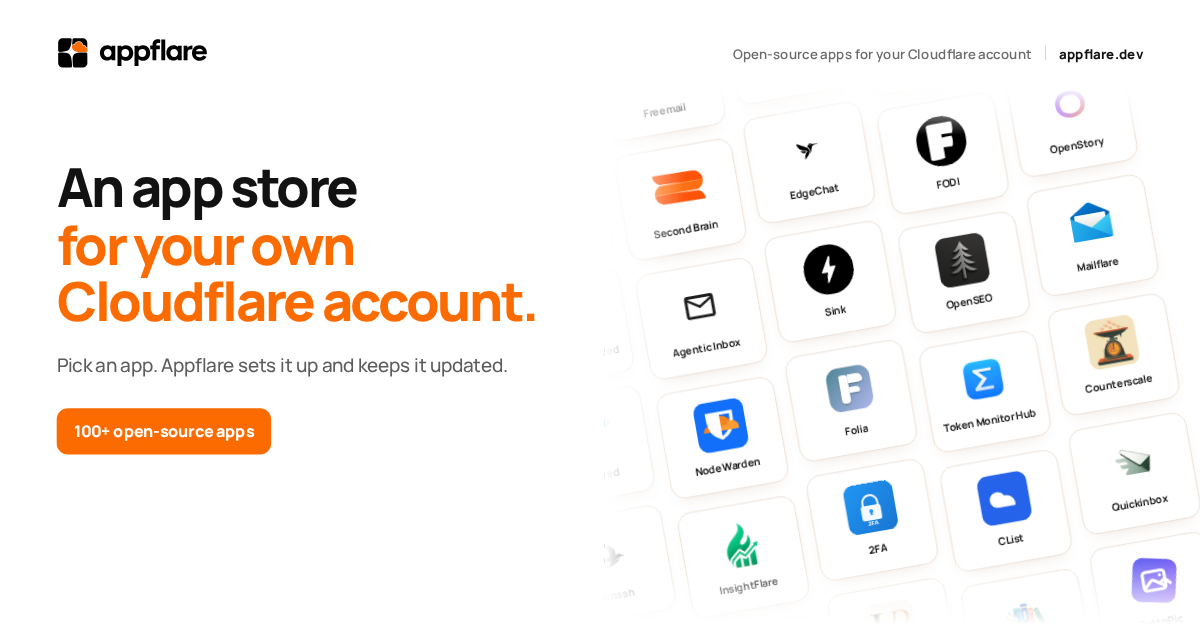
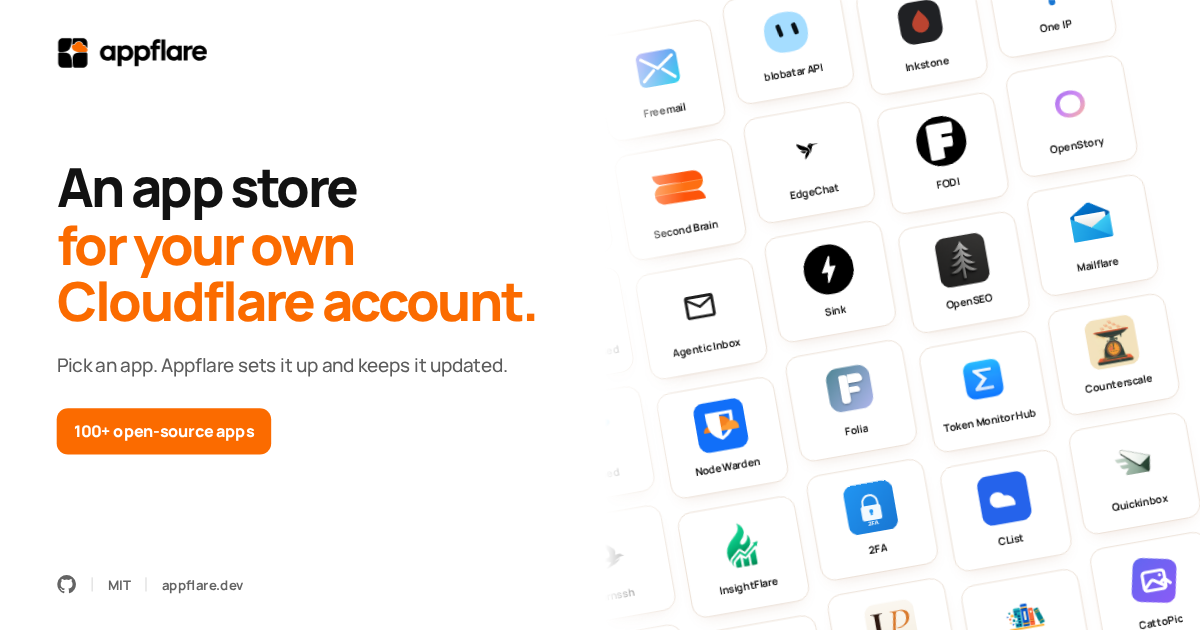
docs: extend social app wall and add license footer

diff --git a/apps/docs/src/build/og-images.ts b/apps/docs/src/build/og-images.ts
@@ -1,6 +1,7 @@
 import { mkdir, readdir, readFile, writeFile } from "node:fs/promises";
 import { dirname, join, resolve } from "node:path";
 import type { Plugin } from "vite";
+import { ogImagePath } from "../lib/shared.ts";
 
 /**
  * The same-site OpenGraph image paths an HTML document references, such as
@@ -45,12 +46,11 @@ export function ogImages({ siteUrl }: { siteUrl: string }): Plugin {
         if (!client) throw new Error('Vite\'s "client" environment is missing');
         const outDir = resolve(viteBuilder.config.root, client.config.build.outDir);
 
-        const paths = new Set<string>();
+        // Existing shared links may still reference the previous default image.
+        const paths = new Set<string>([ogImagePath([])]);
         for (const file of await htmlFiles(outDir)) {
           for (const path of ogImagePaths(await readFile(file, "utf8"), siteUrl)) paths.add(path);
         }
-        if (paths.size === 0) return;
-
         const { preview } = await import("vite");
         const server = await preview({
           configFile: viteBuilder.config.configFile,

diff --git a/apps/docs/src/routes/deploy/index.tsx b/apps/docs/src/routes/deploy/index.tsx
@@ -7,7 +7,7 @@ import { useDeployFlow } from "../../components/deploy/use-deploy-flow.ts";
 import { DEPLOY_PATH } from "../../deploy/config.ts";
 import { requireDeployDocument } from "../../deploy/route-guard.ts";
 import { pageHead } from "../../lib/meta.ts";
-import { ogImagePath, SITE_URL, siteName } from "../../lib/shared.ts";
+import { SITE_URL, siteName, siteOgImagePath } from "../../lib/shared.ts";
 import deployCss from "../../styles/deploy.css?url";
 
 /**
@@ -26,7 +26,7 @@ export const Route = createFileRoute("/deploy/")({
         "Install Appflare into your own Cloudflare account from your browser: connect Cloudflare, choose the account and address, deploy.",
       url: `${SITE_URL}${DEPLOY_PATH}`,
       // No card of its own: the site's card.
-      image: `${SITE_URL}${ogImagePath([])}`,
+      image: `${SITE_URL}${siteOgImagePath}`,
     });
     return { ...head, links: [...head.links, { rel: "stylesheet", href: deployCss }] };
   },

diff --git a/apps/docs/src/routes/deploy/callback.tsx b/apps/docs/src/routes/deploy/callback.tsx
@@ -10,7 +10,7 @@ import { requireDeployDocument } from "../../deploy/route-guard.ts";
 import { browserDeployStorage } from "../../deploy/storage.ts";
 import { TokenKeeper } from "../../deploy/tokens.ts";
 import { noindexPageHead } from "../../lib/meta.ts";
-import { ogImagePath, SITE_URL, siteName } from "../../lib/shared.ts";
+import { SITE_URL, siteName, siteOgImagePath } from "../../lib/shared.ts";
 import deployCss from "../../styles/deploy.css?url";
 
 /**
@@ -28,7 +28,7 @@ export const Route = createFileRoute("/deploy/callback")({
       title: `Connecting Cloudflare | ${siteName}`,
       description: "Finishing the Cloudflare sign-in for Appflare.",
       url: `${SITE_URL}${CALLBACK_PATH}`,
-      image: `${SITE_URL}${ogImagePath([])}`,
+      image: `${SITE_URL}${siteOgImagePath}`,
     });
     return { ...head, links: [...head.links, { rel: "stylesheet", href: deployCss }] };
   },

diff --git a/apps/docs/src/og/resolve.ts b/apps/docs/src/og/resolve.ts
@@ -9,8 +9,8 @@ import type { OgPicture } from "./picture.ts";
 /**
  * Which card each OpenGraph image path draws. The paths follow the pages:
  *
- * - `/og/image.png`: the site's own card, for the front page and the pages
- *   without a card of their own;
+ * - `/og/image.png`: the previous site card, kept for existing shared links;
+ *   current pages use the static launch artwork (`siteOgImagePath`);
  * - `/og/<page>/image.png`: a docs page;
  * - `/og/apps/image.png`, `/og/apps/<slug>/image.png`,
  *   `/og/categories/<id>/image.png`, `/og/install/<slug>/image.png`: the
